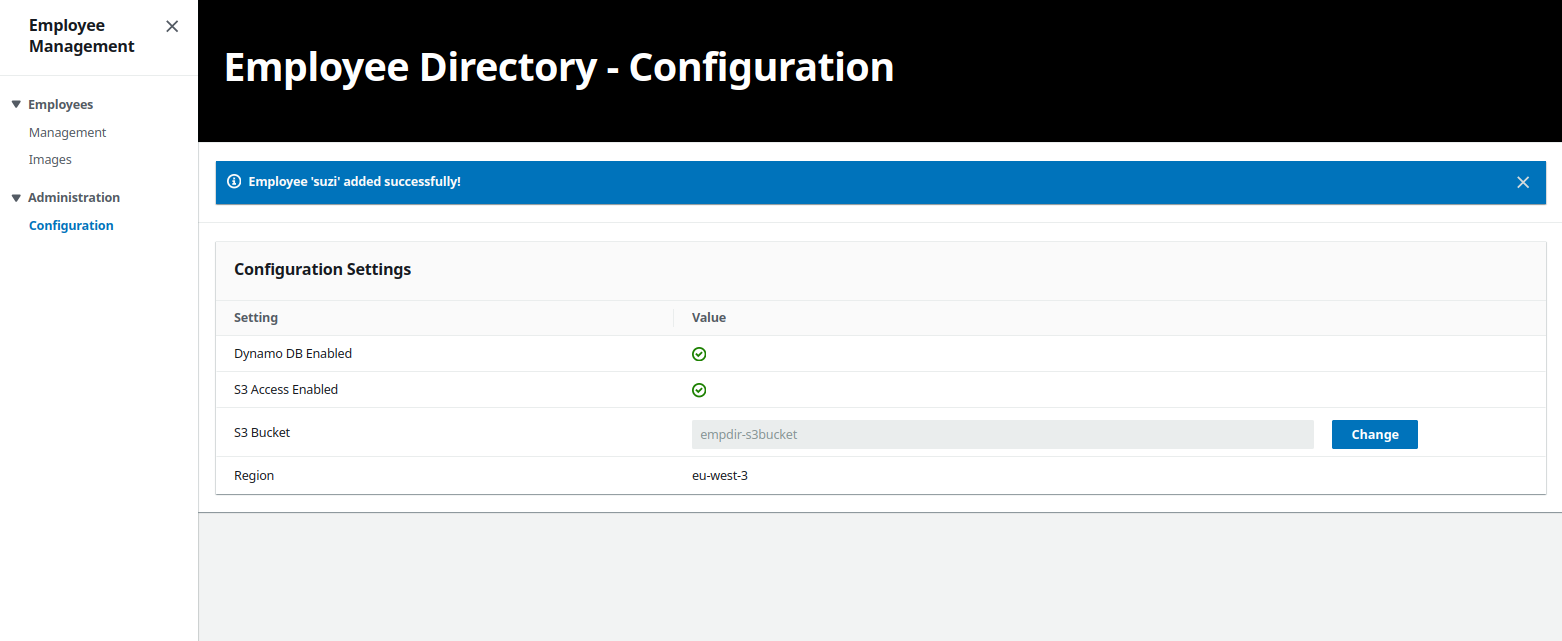
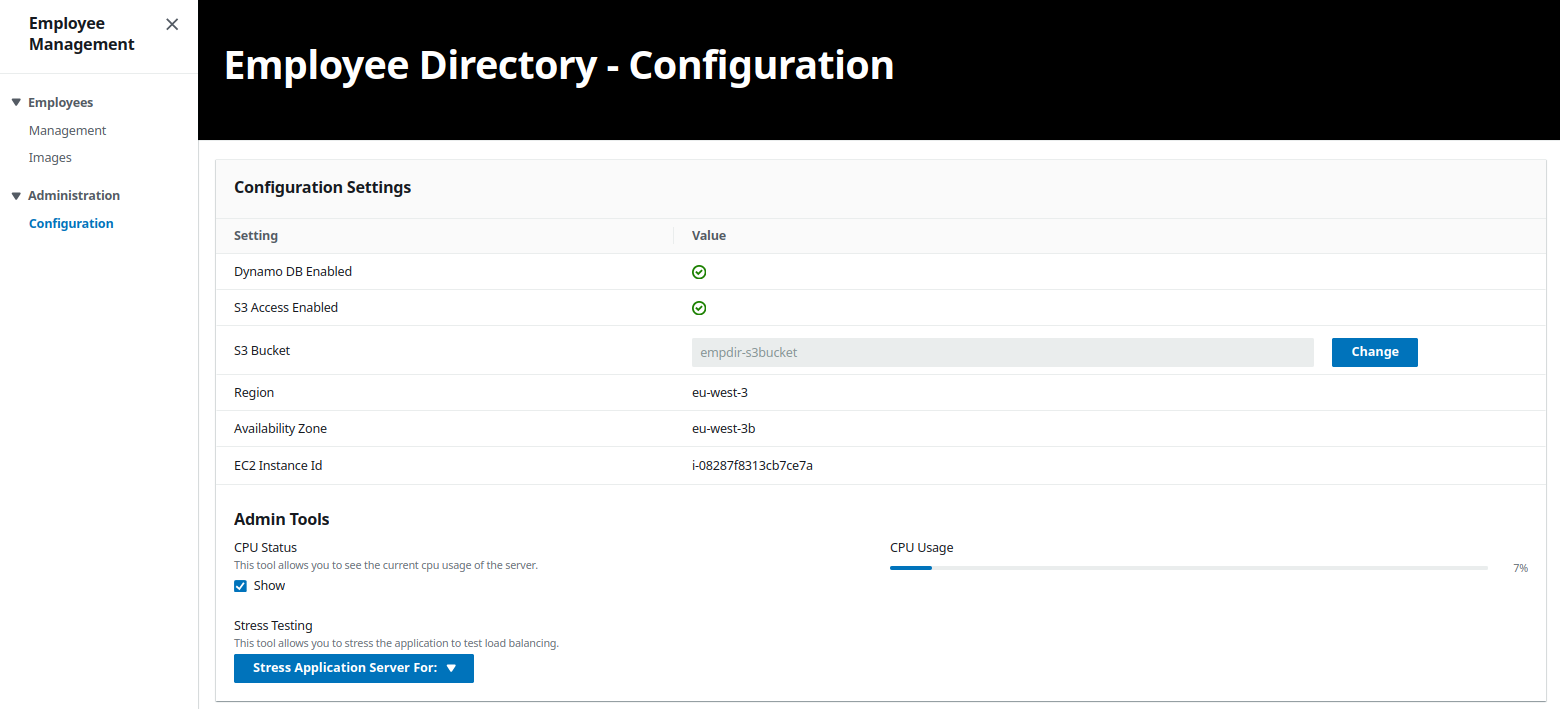
updated

diff --git a/README.md b/README.md
@@ -240,9 +240,11 @@ It runs as a Docker container on an EC2 instance.
 
     ```
     http://<ALB_DNS_NAME>
-    ``
+    ```
 
-### Setting up  a launsh template :
+    <img src="./imgs/lb.png" style="width:100%">
+
+### Setting up  a launsh template : 
 
 * configure the template with the AMI from the previous EC2 instance along with network settings , IAM role and user data (launching script)
 
@@ -260,7 +262,7 @@ It runs as a Docker container on an EC2 instance.
 
     <img src="./imgs/sg-net.png" style="width:100%">
 
-* attach the load balancer target group
+* attach the load balancer and the target group
 
     <img src="./imgs/sg-lb.png" style="width:100%">
 
@@ -268,11 +270,17 @@ It runs as a Docker container on an EC2 instance.
 
     <img src="./imgs/sg-scal.png" style="width:100%">
 
-* add a scaling policy to scale out and in based on the CPU usage
+* add a scaling policy to scale up and down based on the CPU usage (50% in this case)
 
     <img src="./imgs/sg-scal-pol.png" style="width:100%">
 
 ## Testing the Auto Scaling :
+
+* if you refresh the app page you will notice that the "Availability Zone" along with the "EC2 Instance Id" values change indicating that the app is being served by different instances
+
+    <img src="./imgs/3a.png" style="width:100%">
+
+    <img src="./imgs/3b.png" style="width:100%">
 
 * the app has a built in stress feature that uses the stress linux utility to simulate high CPU usage
 
